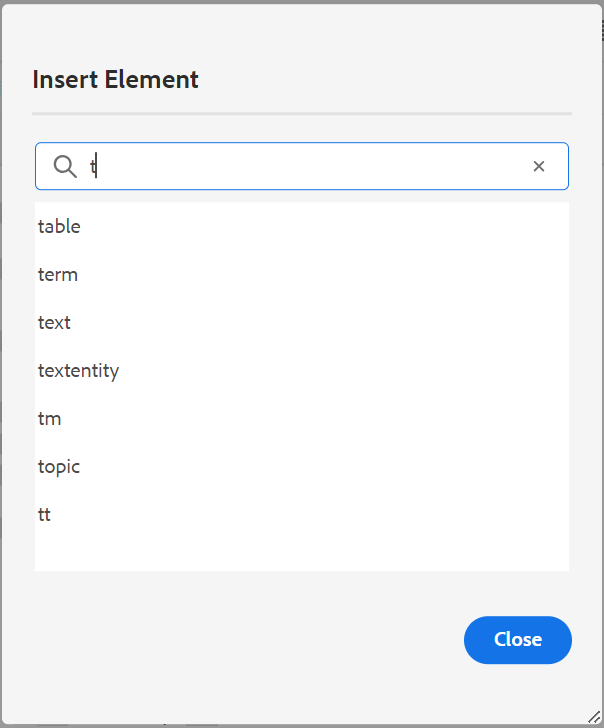
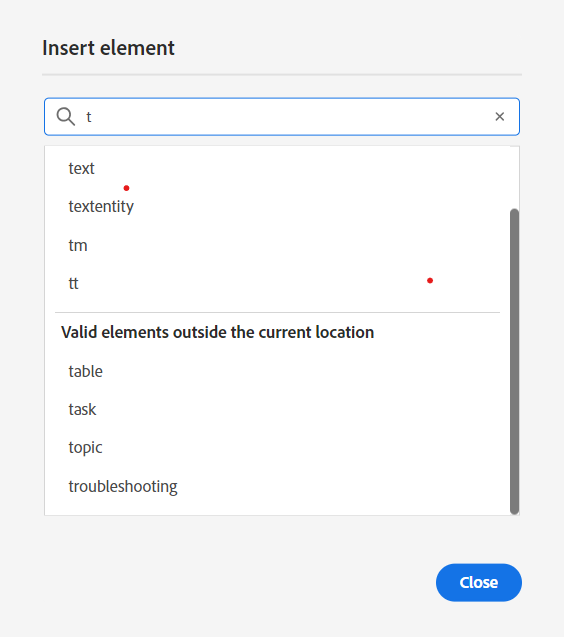
2404 updates

diff --git a/help/product-guide/user-guide/web-editor-features.md b/help/product-guide/user-guide/web-editor-features.md
@@ -311,7 +311,19 @@ The secondary toolbar appears when you open a topic for editing in the Web Edito
 
 **Insert Element** - ![](images/Add_icon.svg)
 
-Inserts a valid element at the current or next valid location. You can also use the keyboard shortcut ***Alt***+***Enter*** to open the Insert Element pop-up. For example, you are editing a paragraph, then in the **Insert Element** pop-up, a list of elements appears that can be inserted in the paragraph. Select the element that you want to insert. You can use the keyboard to scroll through the list of elements and press ***Enter*** to insert the required element. You can also type a character or string in the search box and search for the elements that begin with it.
+Inserts a valid element at the current or next valid location. You can also use the keyboard shortcut ***Alt***+***Enter*** to open the Insert Element pop-up. For example, you are editing a paragraph, then in the **Insert Element** pop-up, a list of elements appears that can be inserted in the paragraph. Select the element that you want to insert. You can use the keyboard to scroll through the list of elements and press ***Enter*** to insert the required element. 
+
+You can view two types of valid elements: 
+
+- **Valid elements at the current location**: The list displays the elements that you can insert at the current cursor location itself.  
+
+- **Valid elements outside the current location**: The list displays the elements that you can insert after any of the parents for the current element within the element hierarchy.   
+
+ 
+
+For example, if you are within the inline `<b>` element, you can insert elements like `<u>`, `<xref>`, `<i>` at the current location. In contrast, you can insert elements like `<table>` and `<topic>` outside the current location. 
+
+You can also type a character or string in the search box and search for the elements that begin with it.
 
  
 ![insert element](images/insert-element.png){width="300" align="left"}
